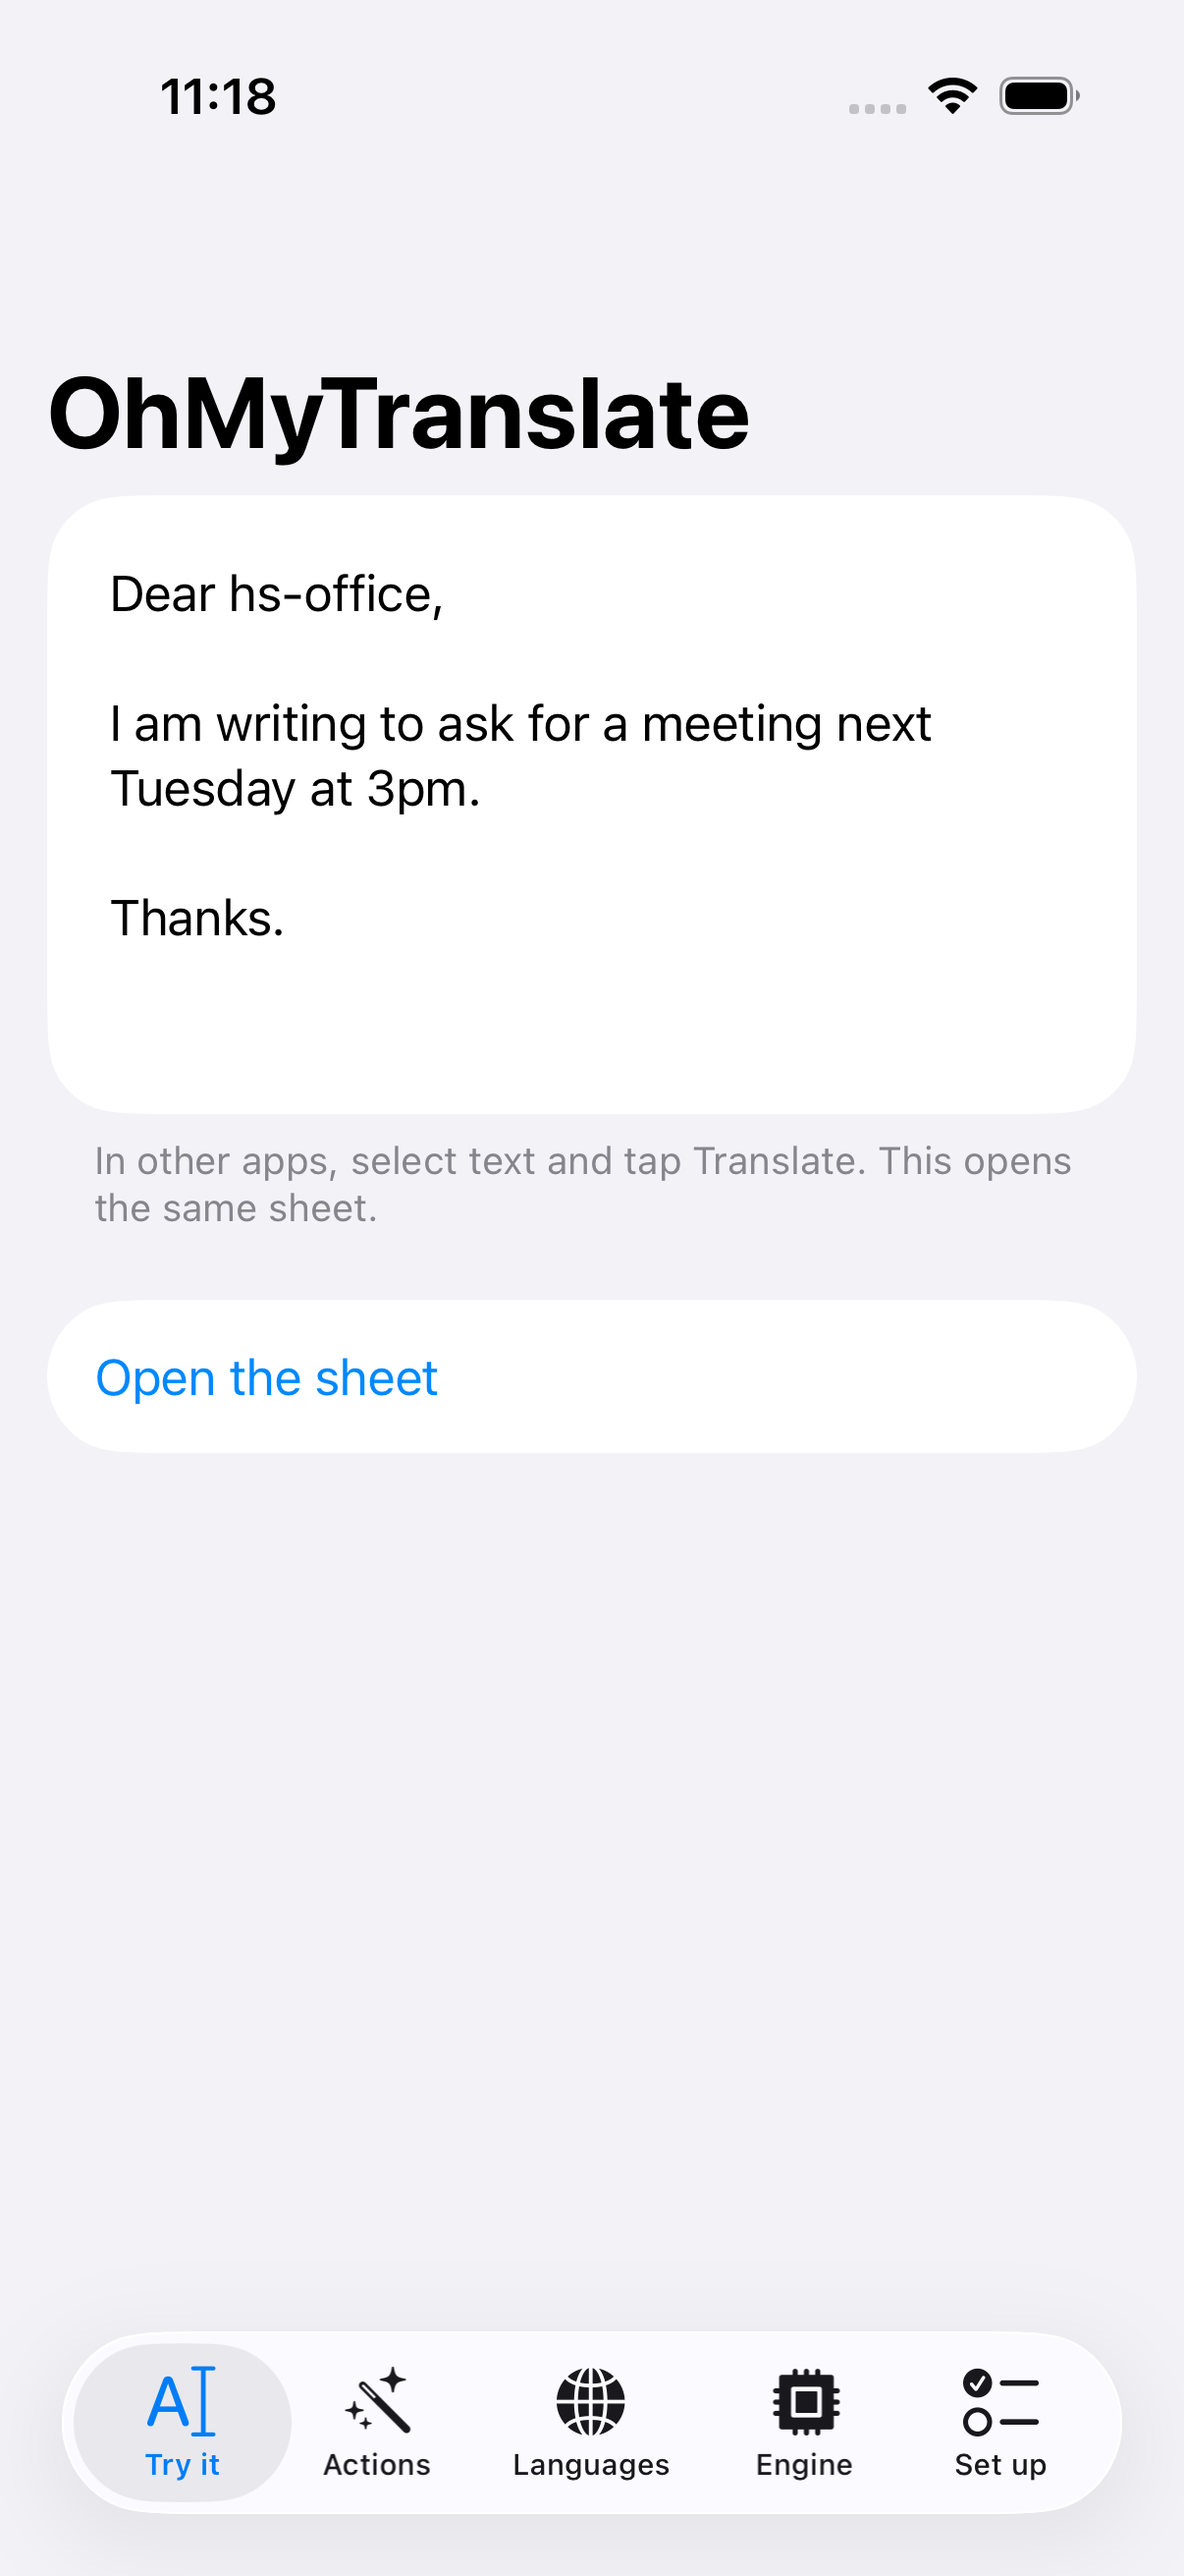
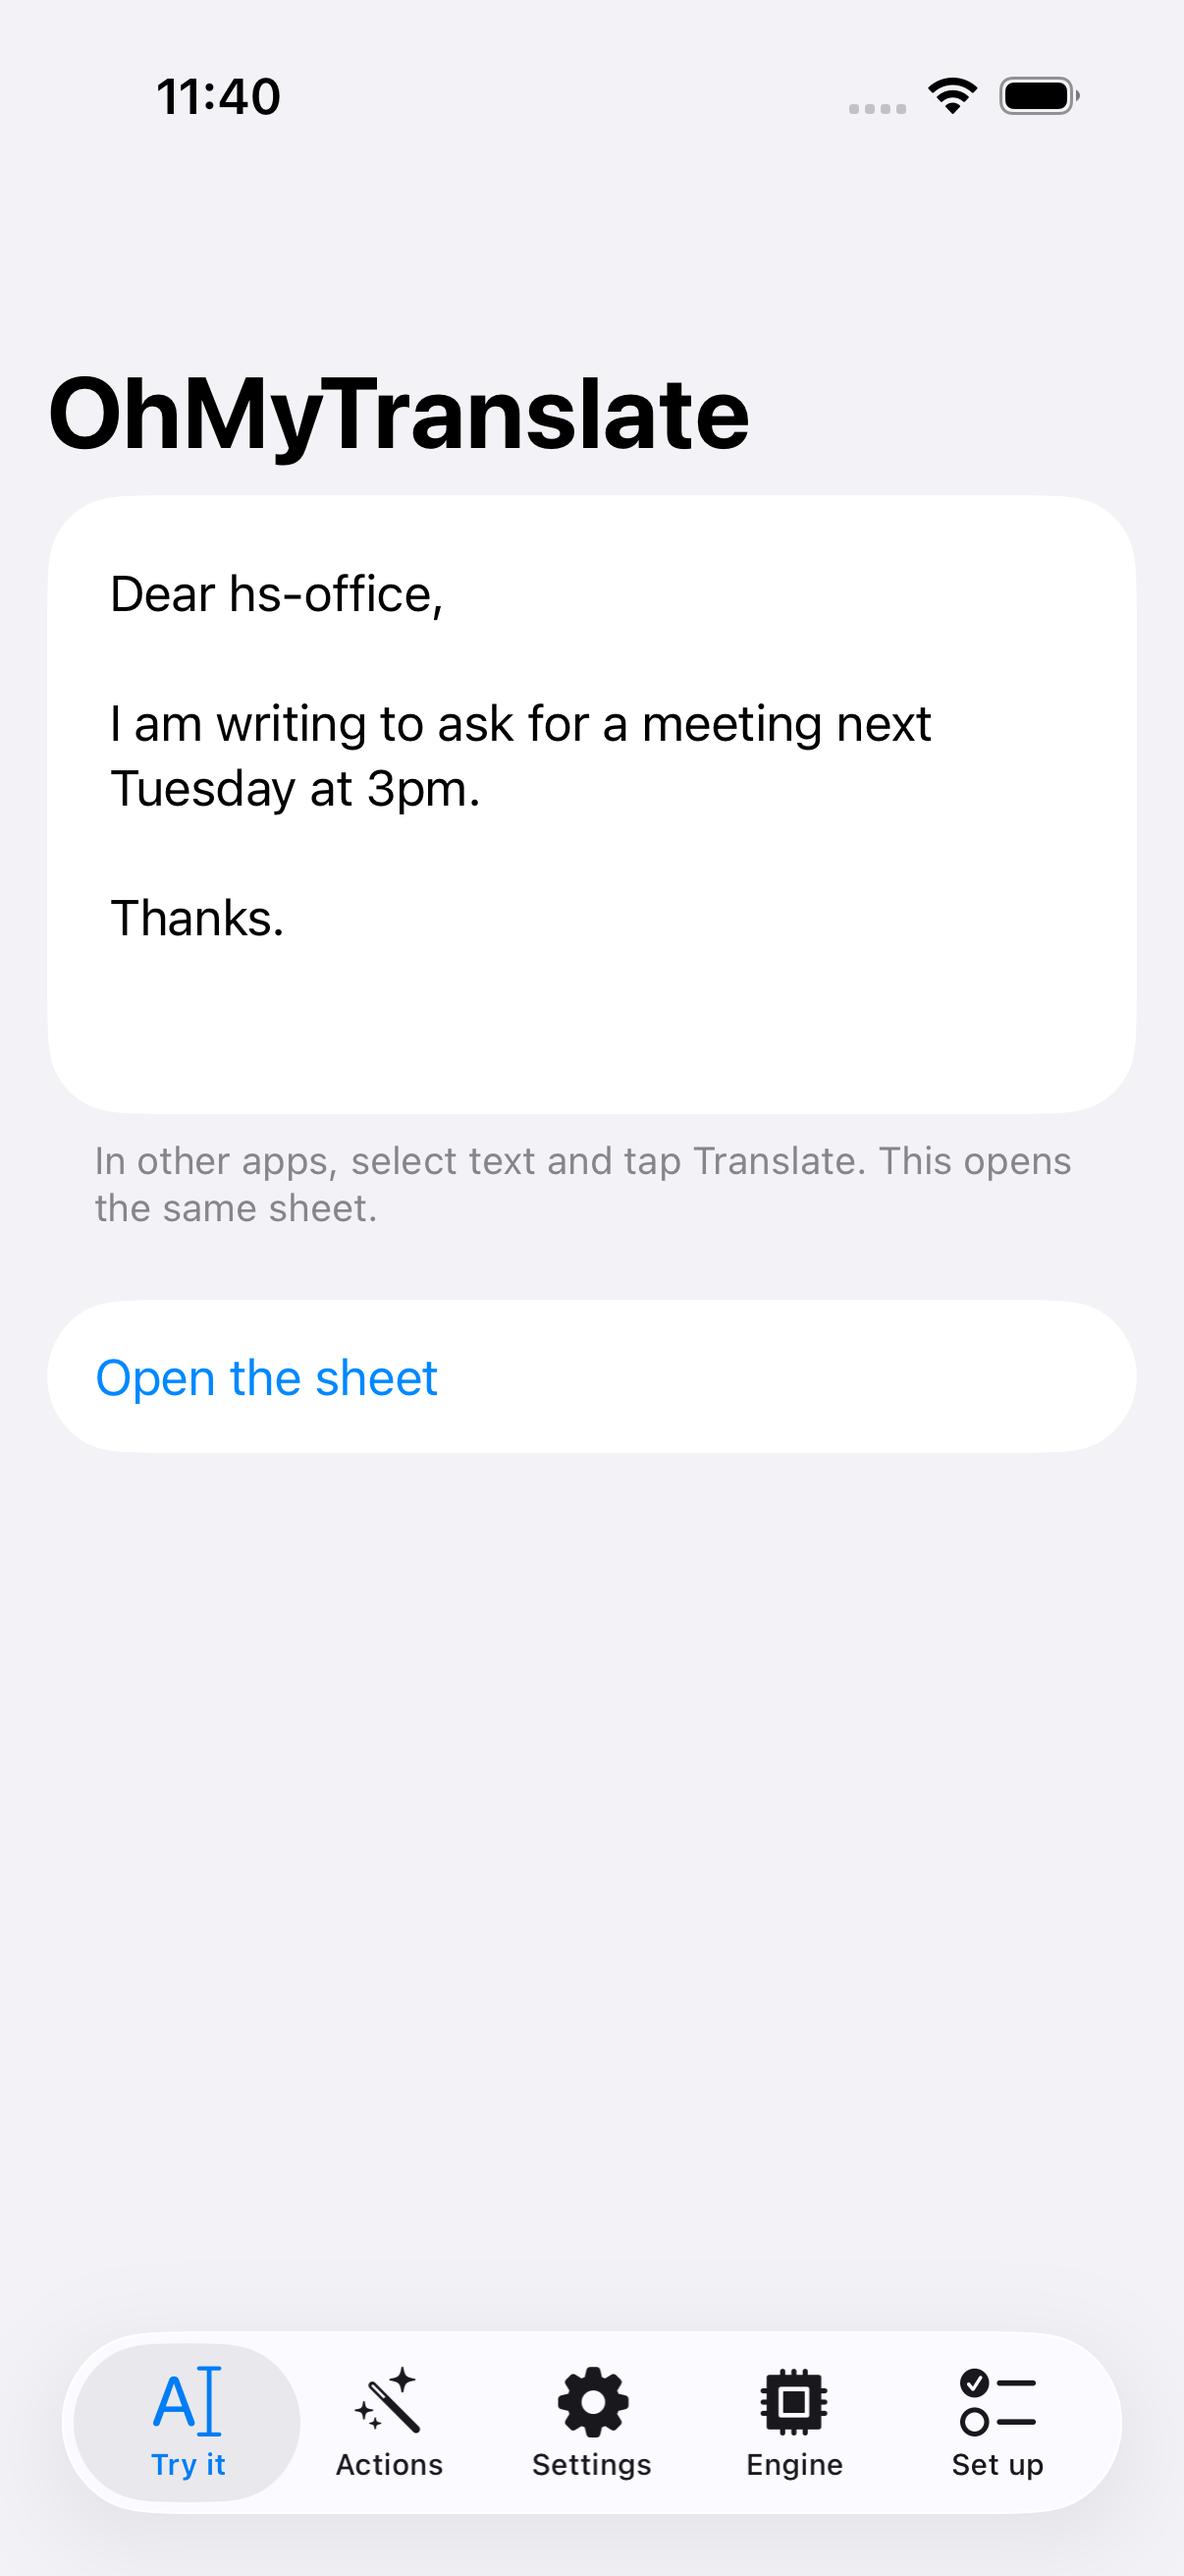
Update app gallery screenshots [skip ci]

diff --git a/README.md b/README.md
@@ -14,12 +14,12 @@ The full list with notes is in [docs/gallery](docs/gallery/README.md).
 <!-- gallery:start -->
 |   |   |   |   |
 |:-:|:-:|:-:|:-:|
-| <img src="docs/gallery/01-try-it.png" width="200" alt="Try it: the app with sample text"> | <img src="docs/gallery/02-sheet-opens-translating.png" width="200" alt="02-sheet-opens-translating"> | <img src="docs/gallery/03-sheet-language-switched.png" width="200" alt="03-sheet-language-switched"> | <img src="docs/gallery/04-sheet-action-switched.png" width="200" alt="04-sheet-action-switched"> |
-| **Try it: the app with sample text** | **02-sheet-opens-translating** | **03-sheet-language-switched** | **04-sheet-action-switched** |
-| <img src="docs/gallery/05-sheet-quick-prompt-typed.png" width="200" alt="05-sheet-quick-prompt-typed"> | <img src="docs/gallery/06-sheet-quick-prompt-result.png" width="200" alt="06-sheet-quick-prompt-result"> | <img src="docs/gallery/07-replaced-in-text.png" width="200" alt="07-replaced-in-text"> | <img src="docs/gallery/08-tab-actions.png" width="200" alt="08-tab-actions"> |
-| **05-sheet-quick-prompt-typed** | **06-sheet-quick-prompt-result** | **07-replaced-in-text** | **08-tab-actions** |
-| <img src="docs/gallery/09-tab-languages.png" width="200" alt="09-tab-languages"> | <img src="docs/gallery/10-tab-engine.png" width="200" alt="10-tab-engine"> | <img src="docs/gallery/11-tab-set-up.png" width="200" alt="11-tab-set-up"> | |
-| **09-tab-languages** | **10-tab-engine** | **11-tab-set-up** | |
+| <img src="docs/gallery/01-try-it.png" width="200" alt="Try it: the app with sample text"> | <img src="docs/gallery/02-sheet-opens-auto-detected.png" width="200" alt="Translate opens the sheet, language detected"> | <img src="docs/gallery/03-sheet-source-menu.png" width="200" alt="Source language: detect, or pick one"> | <img src="docs/gallery/04-sheet-language-switched.png" width="200" alt="Tap a language: it runs again"> |
+| **Try it: the app with sample text** | **Translate opens the sheet, language detected** | **Source language: detect, or pick one** | **Tap a language: it runs again** |
+| <img src="docs/gallery/05-sheet-action-switched.png" width="200" alt="Tap an action: Polish, same text"> | <img src="docs/gallery/06-sheet-quick-prompt-typed.png" width="200" alt="Quick prompt: say what to change"> | <img src="docs/gallery/07-sheet-quick-prompt-result.png" width="200" alt="The quick prompt's result, streamed"> | <img src="docs/gallery/08-replaced-in-text.png" width="200" alt="Replace writes it back into the text"> |
+| **Tap an action: Polish, same text** | **Quick prompt: say what to change** | **The quick prompt's result, streamed** | **Replace writes it back into the text** |
+| <img src="docs/gallery/09-tab-actions.png" width="200" alt="Actions: which chips show, and their order"> | <img src="docs/gallery/10-tab-settings.png" width="200" alt="Settings: languages and the default search"> | <img src="docs/gallery/11-tab-engine.png" width="200" alt="Engine: Claude, OpenAI-compatible, on-device or demo"> | <img src="docs/gallery/12-tab-set-up.png" width="200" alt="Set up: make it the default Translate"> |
+| **Actions: which chips show, and their order** | **Settings: languages and the default search** | **Engine: Claude, OpenAI-compatible, on-device or demo** | **Set up: make it the default Translate** |
 <!-- gallery:end -->
 
 ## Engines

diff --git a/docs/gallery/README.md b/docs/gallery/README.md
@@ -7,42 +7,46 @@ Simulator: iPhone 17 Pro, iOS 26.2.
 
 ![01-try-it](01-try-it.png)
 
-### 02-sheet-opens-translating
+### Translate opens the sheet, language detected
 
-![02-sheet-opens-translating](02-sheet-opens-translating.png)
+![02-sheet-opens-auto-detected](02-sheet-opens-auto-detected.png)
 
-### 03-sheet-language-switched
+### Source language: detect, or pick one
 
-![03-sheet-language-switched](03-sheet-language-switched.png)
+![03-sheet-source-menu](03-sheet-source-menu.png)
 
-### 04-sheet-action-switched
+### Tap a language: it runs again
 
-![04-sheet-action-switched](04-sheet-action-switched.png)
+![04-sheet-language-switched](04-sheet-language-switched.png)
 
-### 05-sheet-quick-prompt-typed
+### Tap an action: Polish, same text
 
-![05-sheet-quick-prompt-typed](05-sheet-quick-prompt-typed.png)
+![05-sheet-action-switched](05-sheet-action-switched.png)
 
-### 06-sheet-quick-prompt-result
+### Quick prompt: say what to change
 
-![06-sheet-quick-prompt-result](06-sheet-quick-prompt-result.png)
+![06-sheet-quick-prompt-typed](06-sheet-quick-prompt-typed.png)
 
-### 07-replaced-in-text
+### The quick prompt's result, streamed
 
-![07-replaced-in-text](07-replaced-in-text.png)
+![07-sheet-quick-prompt-result](07-sheet-quick-prompt-result.png)
 
-### 08-tab-actions
+### Replace writes it back into the text
 
-![08-tab-actions](08-tab-actions.png)
+![08-replaced-in-text](08-replaced-in-text.png)
 
-### 09-tab-languages
+### Actions: which chips show, and their order
 
-![09-tab-languages](09-tab-languages.png)
+![09-tab-actions](09-tab-actions.png)
 
-### 10-tab-engine
+### Settings: languages and the default search
 
-![10-tab-engine](10-tab-engine.png)
+![10-tab-settings](10-tab-settings.png)
 
-### 11-tab-set-up
+### Engine: Claude, OpenAI-compatible, on-device or demo
 
-![11-tab-set-up](11-tab-set-up.png)
+![11-tab-engine](11-tab-engine.png)
+
+### Set up: make it the default Translate
+
+![12-tab-set-up](12-tab-set-up.png)
